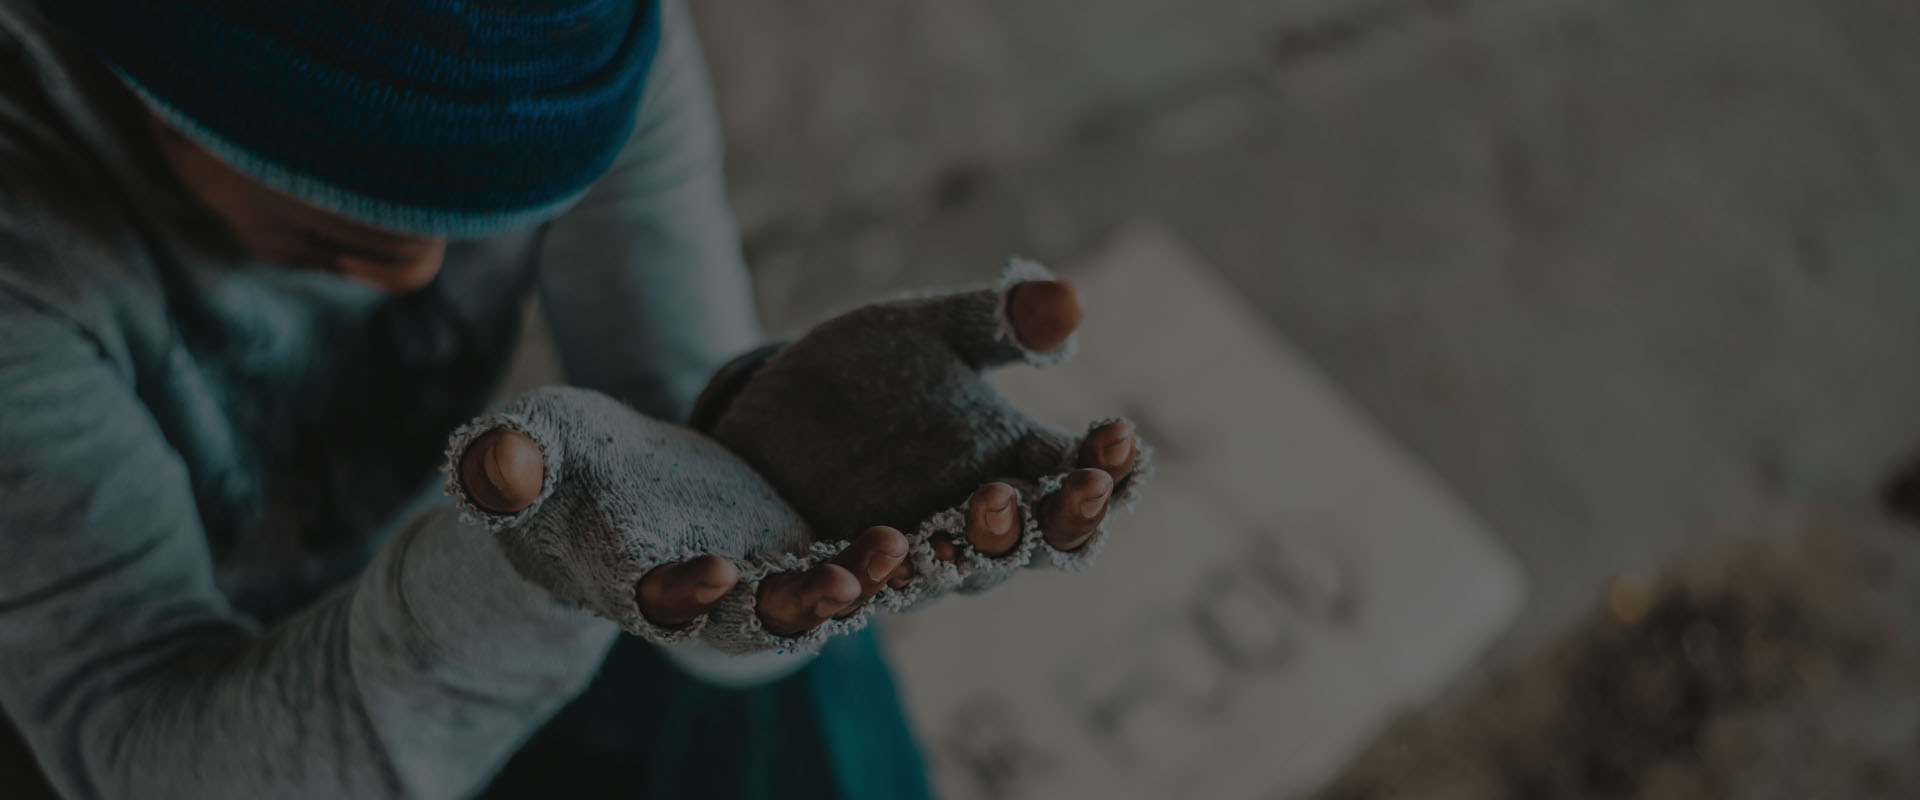
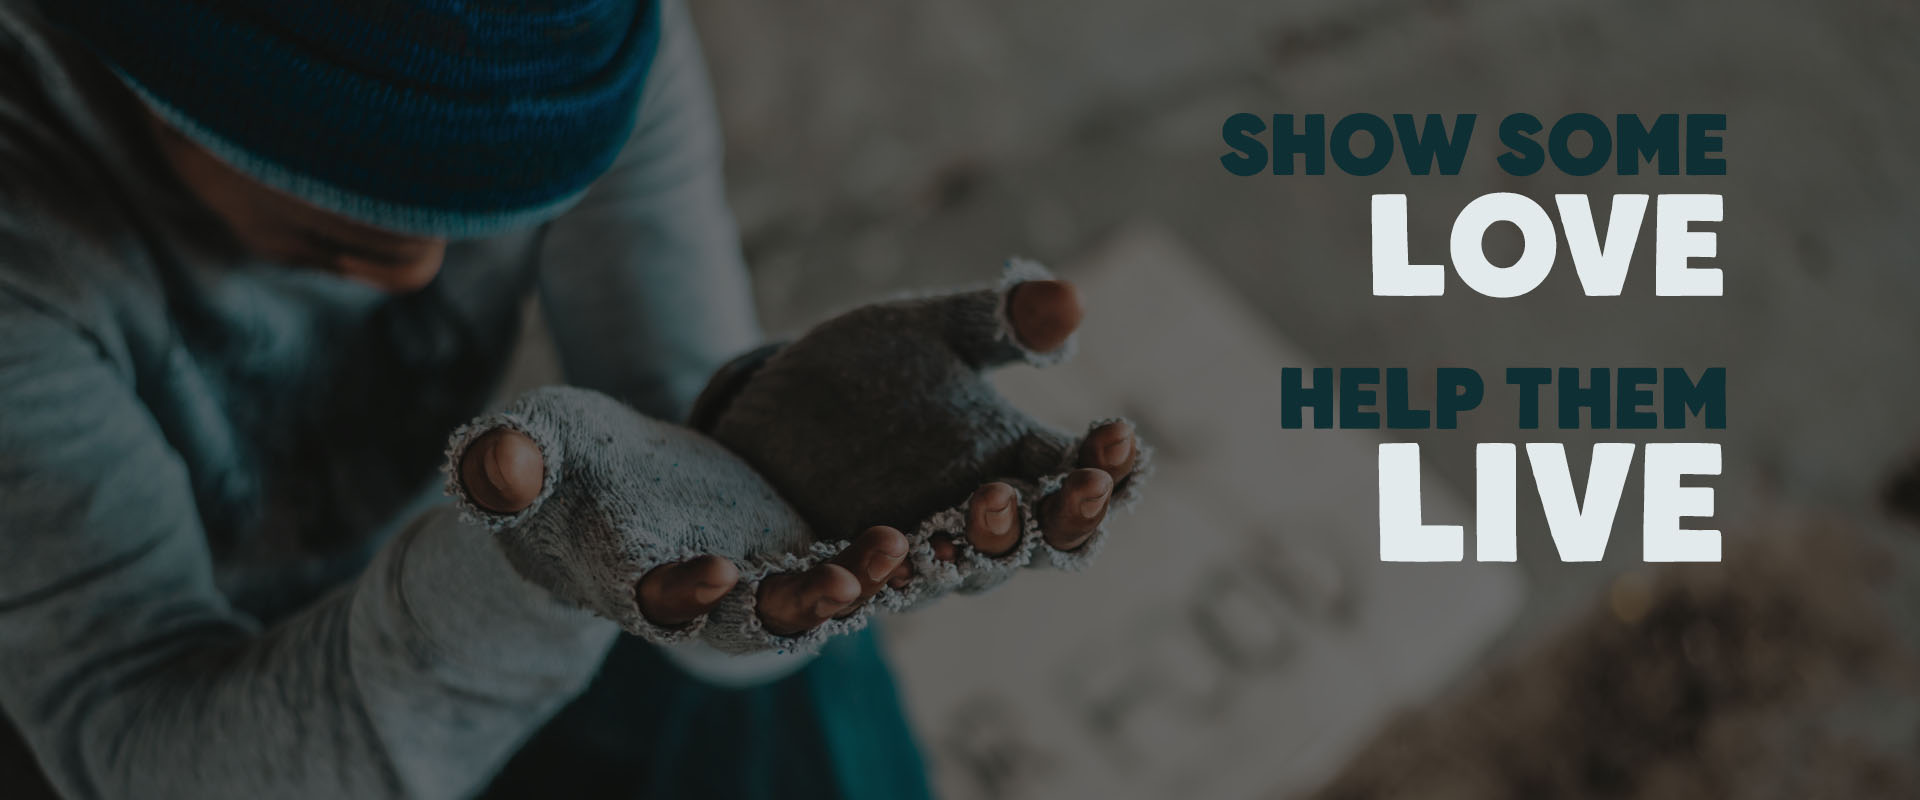
added cliparts for introduction
included cliparts and formatted them

Changed region(s): [[0.6562, 0.4375, 0.9062, 0.7188], [0.625, 0.125, 0.9062, 0.375]]

diff --git a/index.html b/index.html
@@ -1,7 +1,7 @@
 <html>
 <head>
 	<title> Grow Together </title>
-	<link rel="icon" href="among1.png" type="image/gif" sizes="16x16">
+	<link rel="icon" href="among.png" type="image/gif" sizes="16x16">
 	<link rel="stylesheet" href="stylesheetone.css">
 	<link rel="stylesheet" href="slideshow.css">
 	<link rel="stylesheet" href="navbar.css">
@@ -67,6 +67,14 @@
   }
   </script>
 		
+
+ <img src="thumb2.png" width="300px" style="margin-left: 80px;" >
+ 
+ <br>
+ <img src="thumb3.png" width="300px" style="margin-left: 80px;" >
+
+ 
+
 
 <h6> SDG Goal 01 </h6>
 

diff --git a/navbar.css b/navbar.css
@@ -6,6 +6,7 @@ body {
 .topnav {
   background-color: #B90E0A;
   overflow: hidden;
+  z-index:999;
   height:80px;
   position: sticky;  /* Set the navbar to fixed position */
   top: 0; /* Position the navbar at the top of the page */

diff --git a/volunteer.html b/volunteer.html
@@ -1,0 +1,13 @@
+<html>
+    <head>
+        <title>
+
+        </title>
+    </head>
+
+    <body>
+
+
+        
+    </body>
+</html>

diff --git a/slideshow.css b/slideshow.css
@@ -56,5 +56,5 @@ img {vertical-align: middle;}
   position: absolute;
   top: 680px;
   left: 50%;
-  z-index: 999;
+  z-index: 99;
 }
